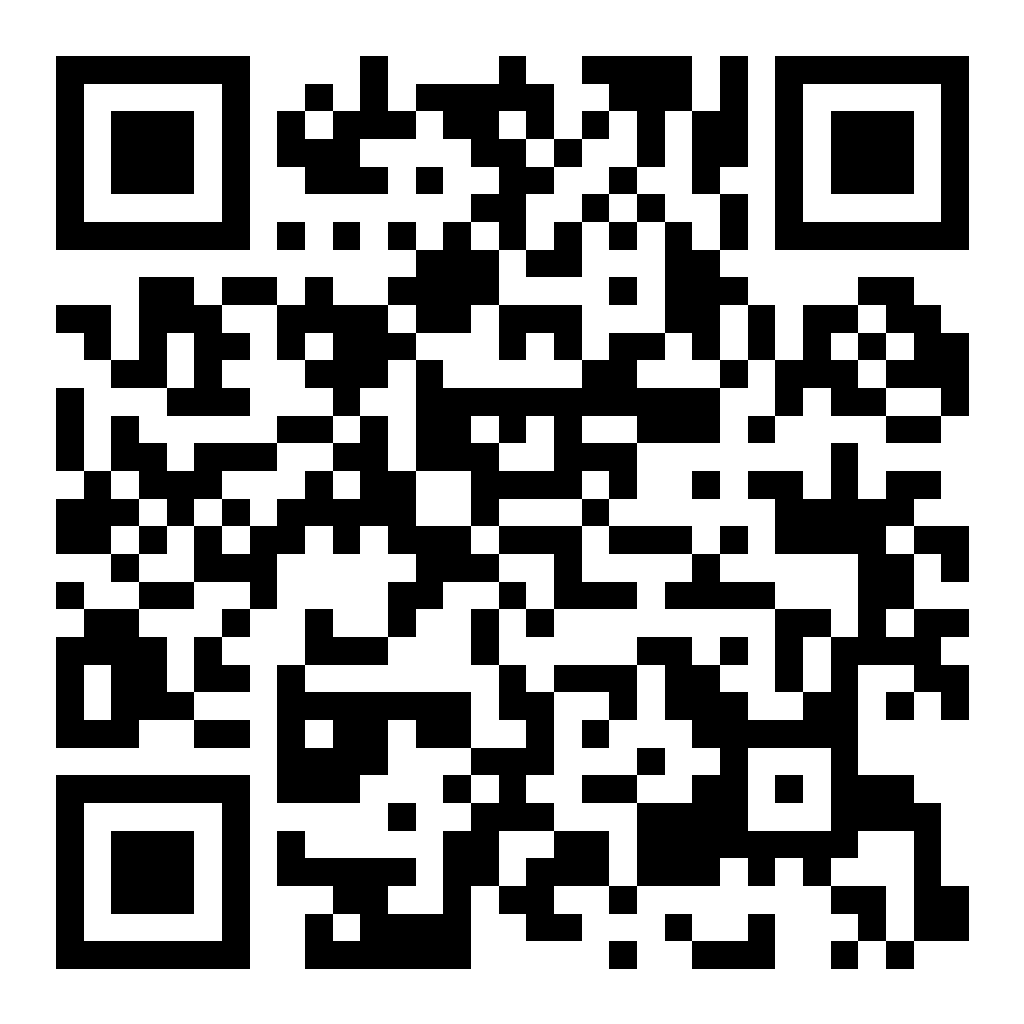
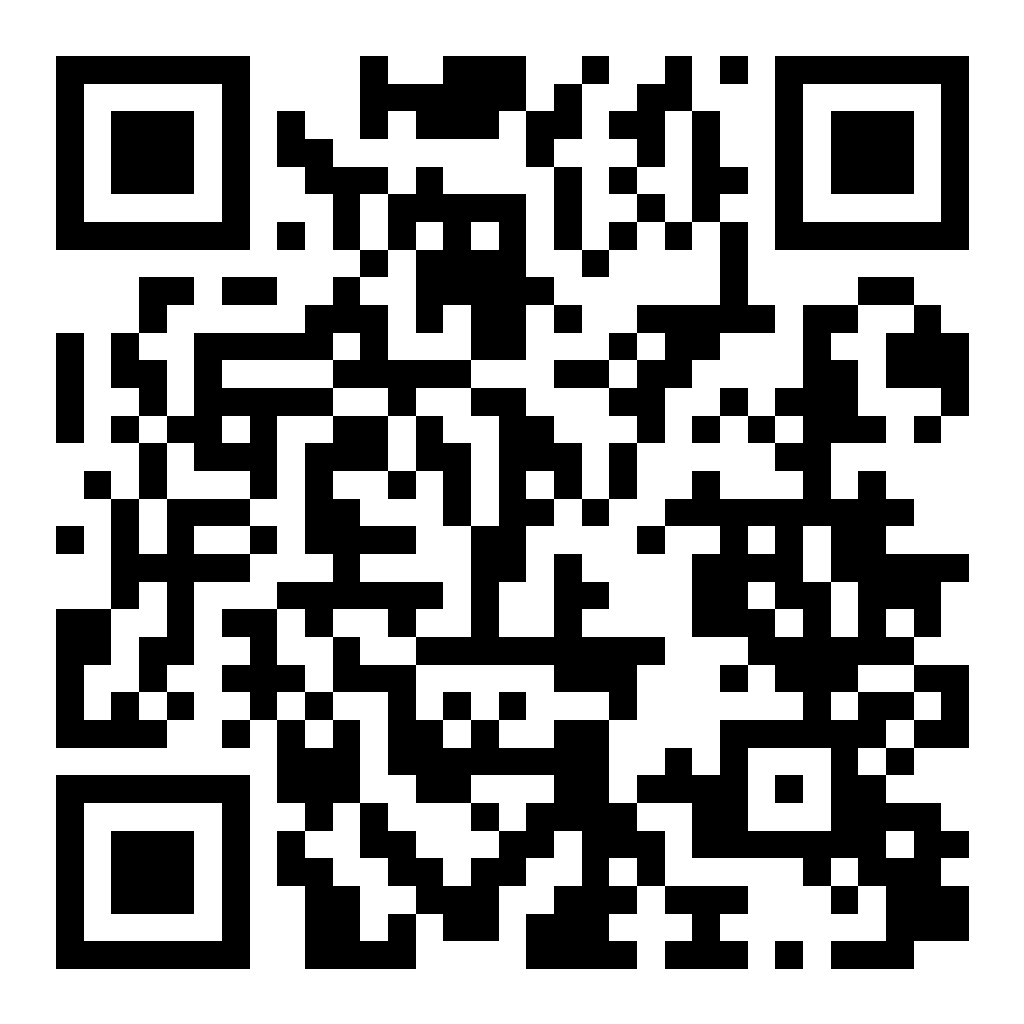
Fix: QR 코드를 HTTP URL로 재생성 — HTTPS 인증서 미발급 회피
원인: GitHub Pages 커스텀 도메인(www.howonrise.co.kr) SSL 인증서 미발급으로
스마트폰 카메라 QR 스캔 시 SEC_E_WRONG_PRINCIPAL 오류로 접속 차단됨

해결:
- QR 인코딩 URL을 https:// → http://www.howonrise.co.kr 로 변경
- HTTP는 GitHub Pages가 200 OK로 정상 서빙 → 카메라 앱에서 즉시 접속 가능
- 사이드바 img/download 링크에 cache-bust ?v=2 추가
- make_qr.js를 레포 안으로 옮기고 GitHub Pages HTTPS 활성화 절차 주석 명시

장기적 해결: GitHub repo Settings → Pages → "Enforce HTTPS" 체크박스
활성화 후 SSL 자동 발급(몇 시간 ~ 24시간) → make_qr.js에서 url을 https로 변경
후 node make_qr.js 재실행

Changed region(s): [[0.0312, 0.0312, 0.9688, 0.9688], [0.8125, 0.8125, 0.9688, 0.9688]]

diff --git a/make_qr.js b/make_qr.js
@@ -1,0 +1,26 @@
+const QR = require('qrcode');
+
+// NOTE: GitHub Pages 커스텀 도메인의 SSL 인증서가 아직 발급되지 않아
+// HTTPS 접속 시 인증서 오류 발생. HTTP로 생성해 모바일 카메라 스캔 시 즉시 접속되도록 함.
+// (GitHub repo Settings → Pages → "Enforce HTTPS" 체크박스 활성화로 SSL 발급 후
+//  https로 변경 가능)
+const url = 'http://www.howonrise.co.kr';
+
+const variants = [
+  { file: 'qr-howonrise.png',       width: 1024, dark: '#065F46', light: '#FFFFFF' },  // 브랜드 에메랄드 (웹/디자인용)
+  { file: 'qr-howonrise-black.png', width: 1024, dark: '#000000', light: '#FFFFFF' },  // 인쇄·복사용 흑백
+  { file: 'qr-howonrise-small.png', width: 512,  dark: '#065F46', light: '#FFFFFF' }   // 웹 공유용 소형
+];
+
+(async () => {
+  for (const v of variants) {
+    const out = `E:/2025 RISE 결과보고서/성과관리플랫폼/${v.file}`;
+    await QR.toFile(out, url, {
+      errorCorrectionLevel: 'H',
+      margin: 2,
+      width: v.width,
+      color: { dark: v.dark, light: v.light }
+    });
+    console.log('OK:', v.file);
+  }
+})();

diff --git a/index.html b/index.html
@@ -42,11 +42,11 @@
       </div>
 
       <div class="qr-box" aria-label="플랫폼 접속 QR">
-        <img src="qr-howonrise-small.png" alt="호원RISE 플랫폼 QR" width="120" height="120" />
+        <img src="qr-howonrise-small.png?v=2" alt="호원RISE 플랫폼 QR" width="120" height="120" />
         <div class="qr-meta">
           <div class="qr-label">스마트폰 접속</div>
           <div class="qr-url">www.howonrise.co.kr</div>
-          <a class="qr-dl" href="qr-howonrise.png" download="호원RISE_QR.png">고해상도 PNG 저장 ↓</a>
+          <a class="qr-dl" href="qr-howonrise.png?v=2" download="호원RISE_QR.png">고해상도 PNG 저장 ↓</a>
         </div>
       </div>
 
